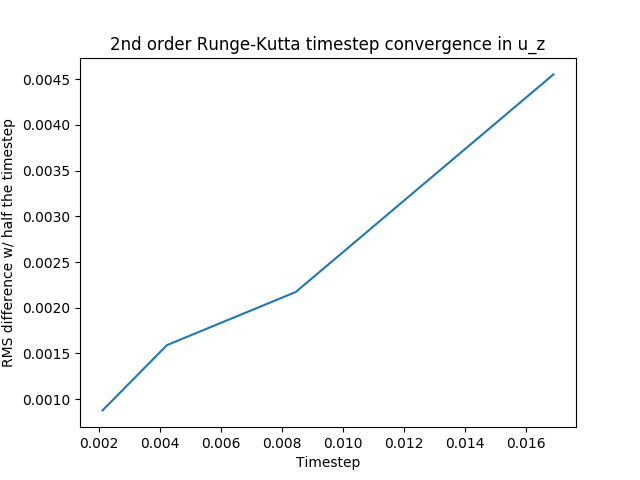
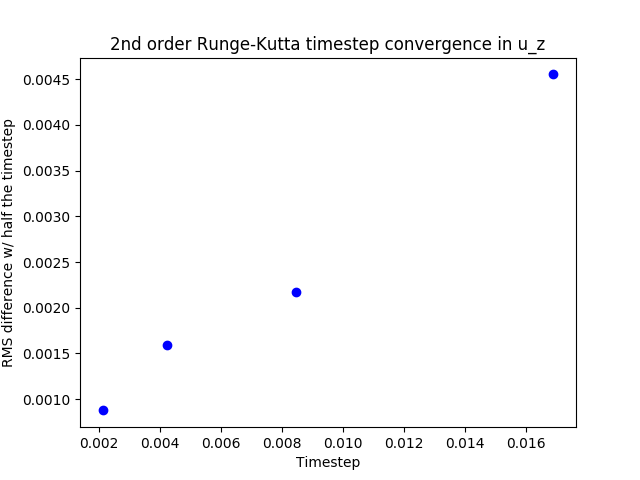
scatter plot instead

diff --git a/sims/2d_strat_conv/strat.py b/sims/2d_strat_conv/strat.py
@@ -145,7 +145,7 @@ if __name__ == '__main__':
              [rms_diff(dat['d0_dt0']['uz'], dat['d0_16_4']['uz']),
               rms_diff(dat['d0_16_4']['uz'], dat['d0_dt2']['uz']),
               rms_diff(dat['d0_dt2']['uz'], dat['d0_dt3']['uz']),
-              rms_diff(dat['d0_dt3']['uz'], dat['d0_dt4']['uz'])])
+              rms_diff(dat['d0_dt3']['uz'], dat['d0_dt4']['uz'])], 'bo')
     plt.xlabel('Timestep')
     plt.ylabel('RMS difference w/ half the timestep')
     plt.title('2nd order Runge-Kutta timestep convergence in u_z')
@@ -155,7 +155,7 @@ if __name__ == '__main__':
     plt.semilogy(PARAMS_RAW['N_Z'] / np.array([8, 4, 2]),
                  [rms_diff(dat['d0_16_8']['uz'], dat['d0_16_4']['uz']),
                   rms_diff(dat['d0_16_4']['uz'], dat['d0_16_2']['uz']),
-                  rms_diff(dat['d0_16_2']['uz'], dat['d0_16_1']['uz'])])
+                  rms_diff(dat['d0_16_2']['uz'], dat['d0_16_1']['uz'])], 'bo')
     plt.xlabel('Number of z points')
     plt.ylabel('RMS difference w/ twice as many z points')
     plt.title('Convergence in uz, N_X held constant at %d' %
@@ -167,7 +167,7 @@ if __name__ == '__main__':
              [rms_diff(dat['d0_16_4']['uz'], dat['d0_8_4']['uz']),
               rms_diff(dat['d0_8_4']['uz'], dat['d0_4_4']['uz']),
               rms_diff(dat['d0_4_4']['uz'], dat['d0_2_4']['uz']),
-              rms_diff(dat['d0_2_4']['uz'], dat['d0_1_4']['uz'])])
+              rms_diff(dat['d0_2_4']['uz'], dat['d0_1_4']['uz'])], 'bo')
     plt.xlabel('Number of x points')
     plt.ylabel('RMS difference w/ twice as many x points')
     plt.title('Convergence in uz, N_Z held constant at %d' %
